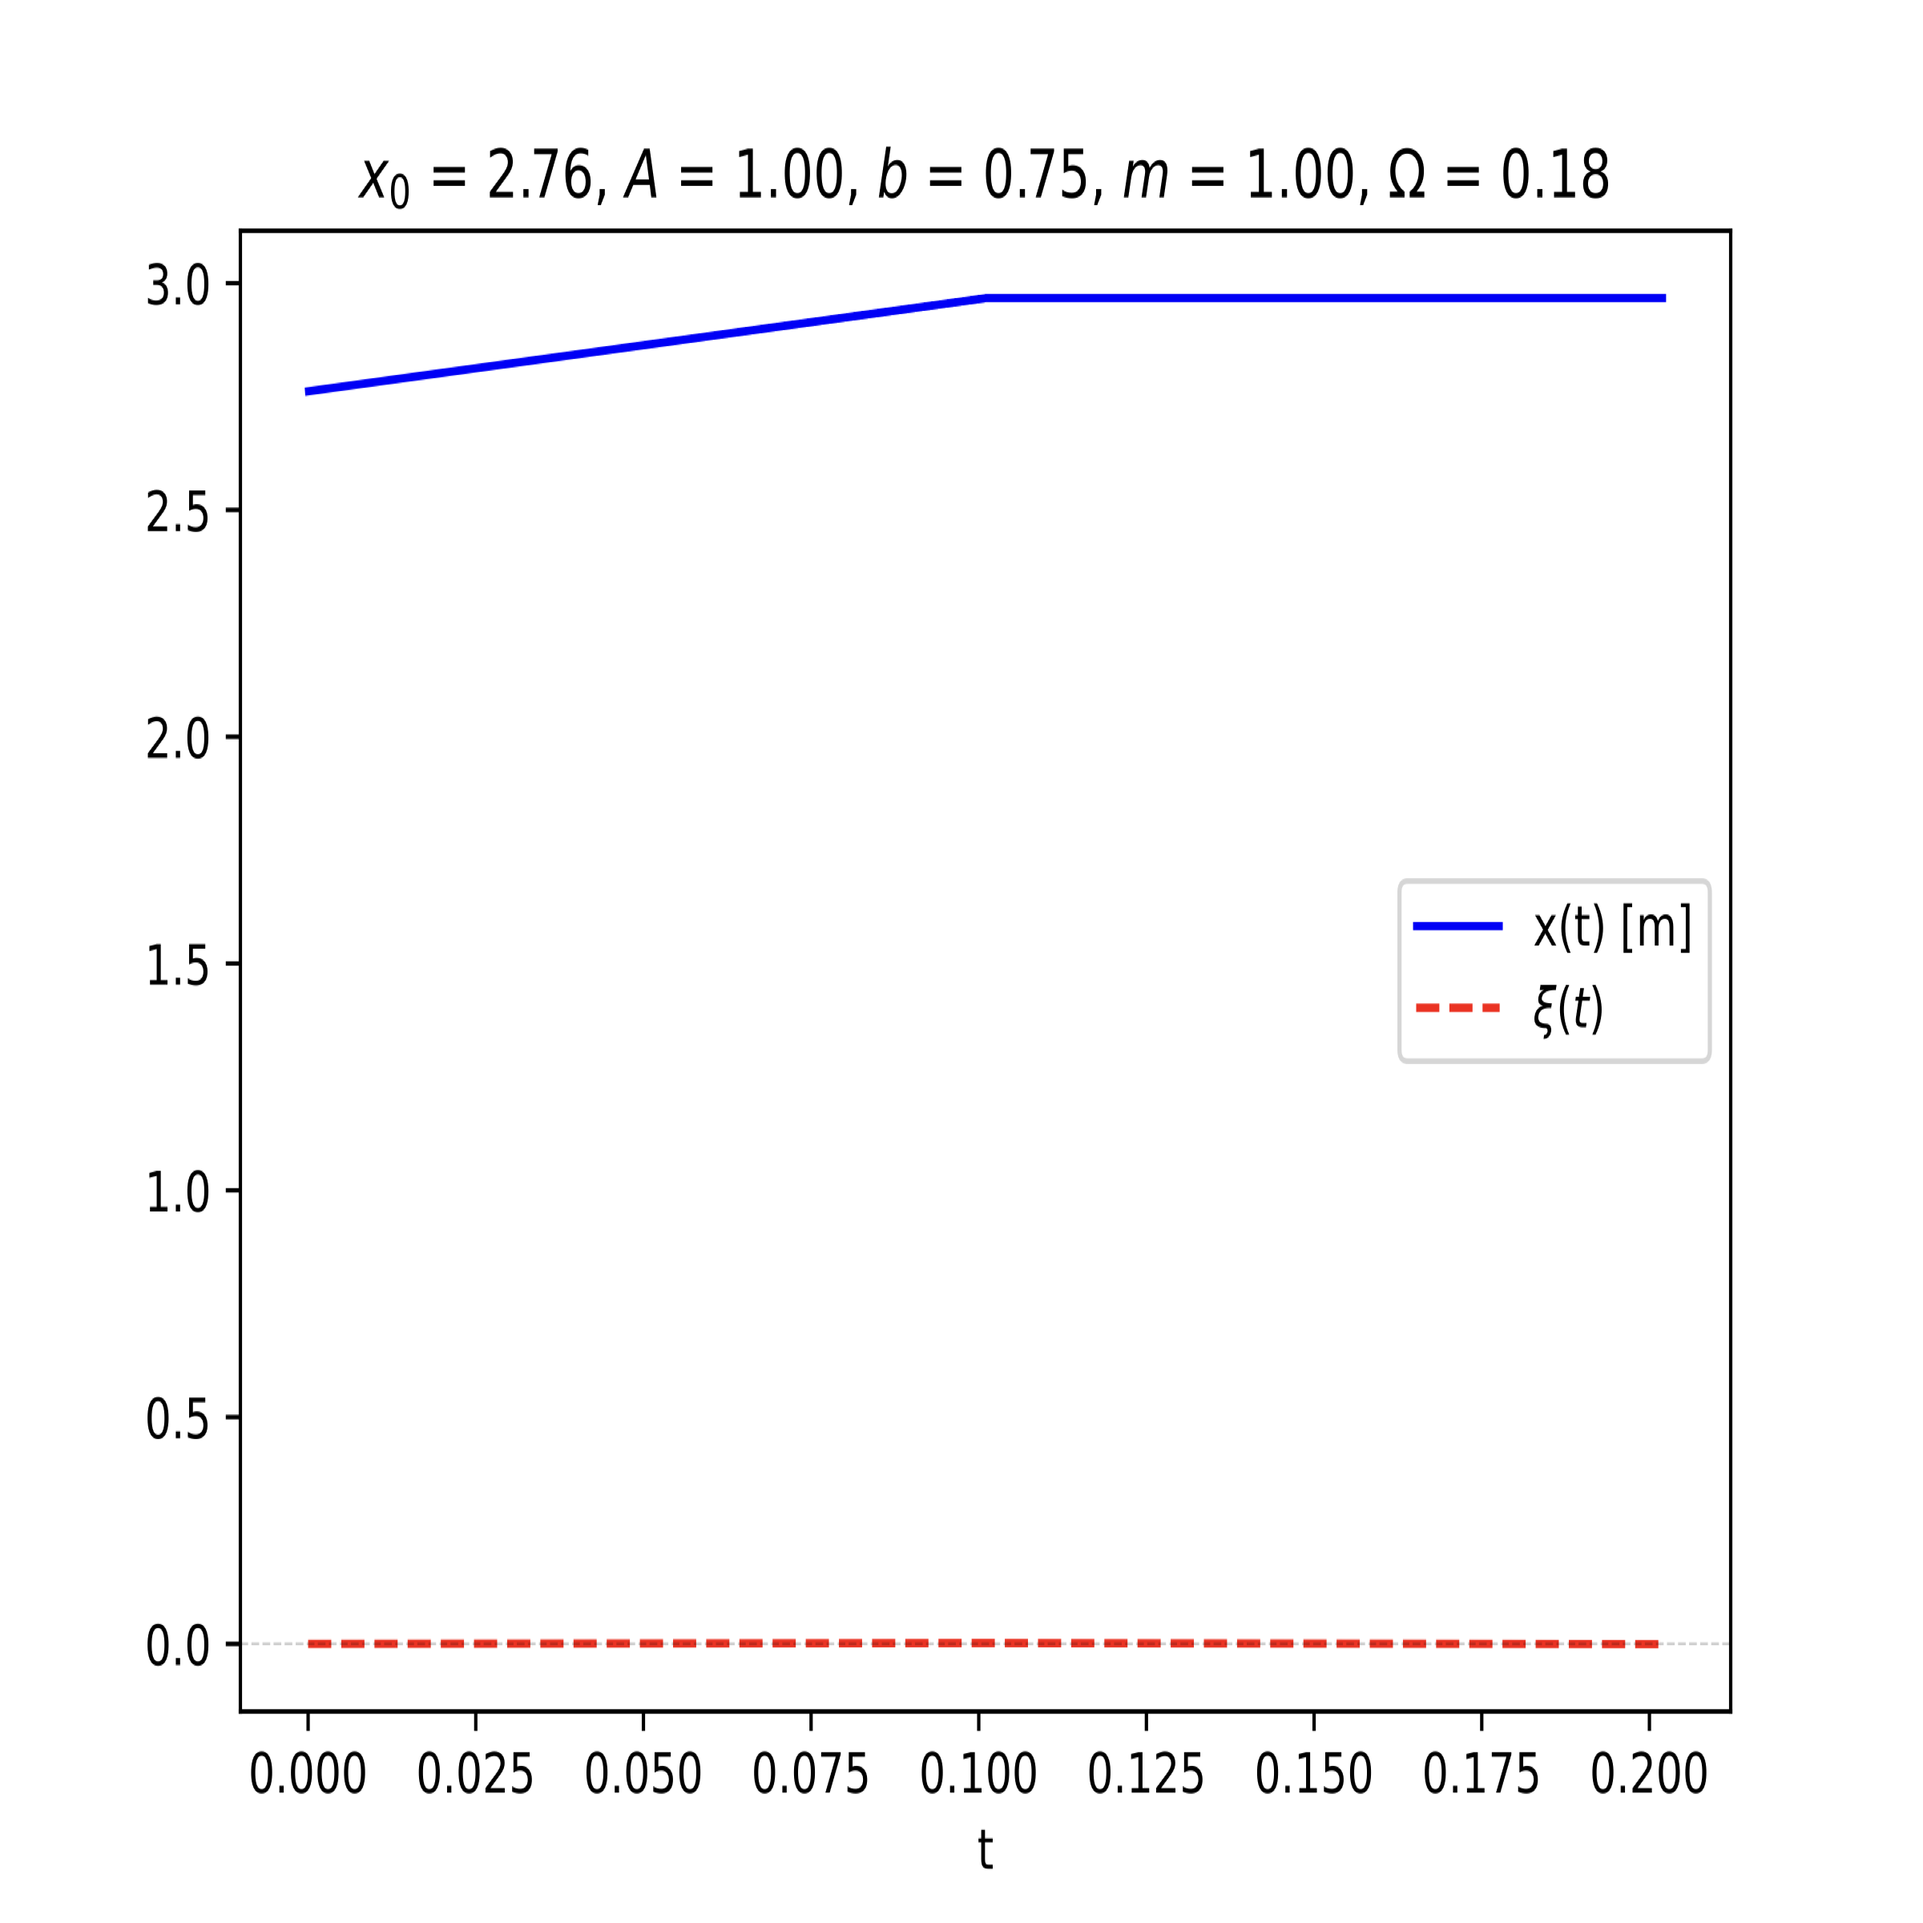
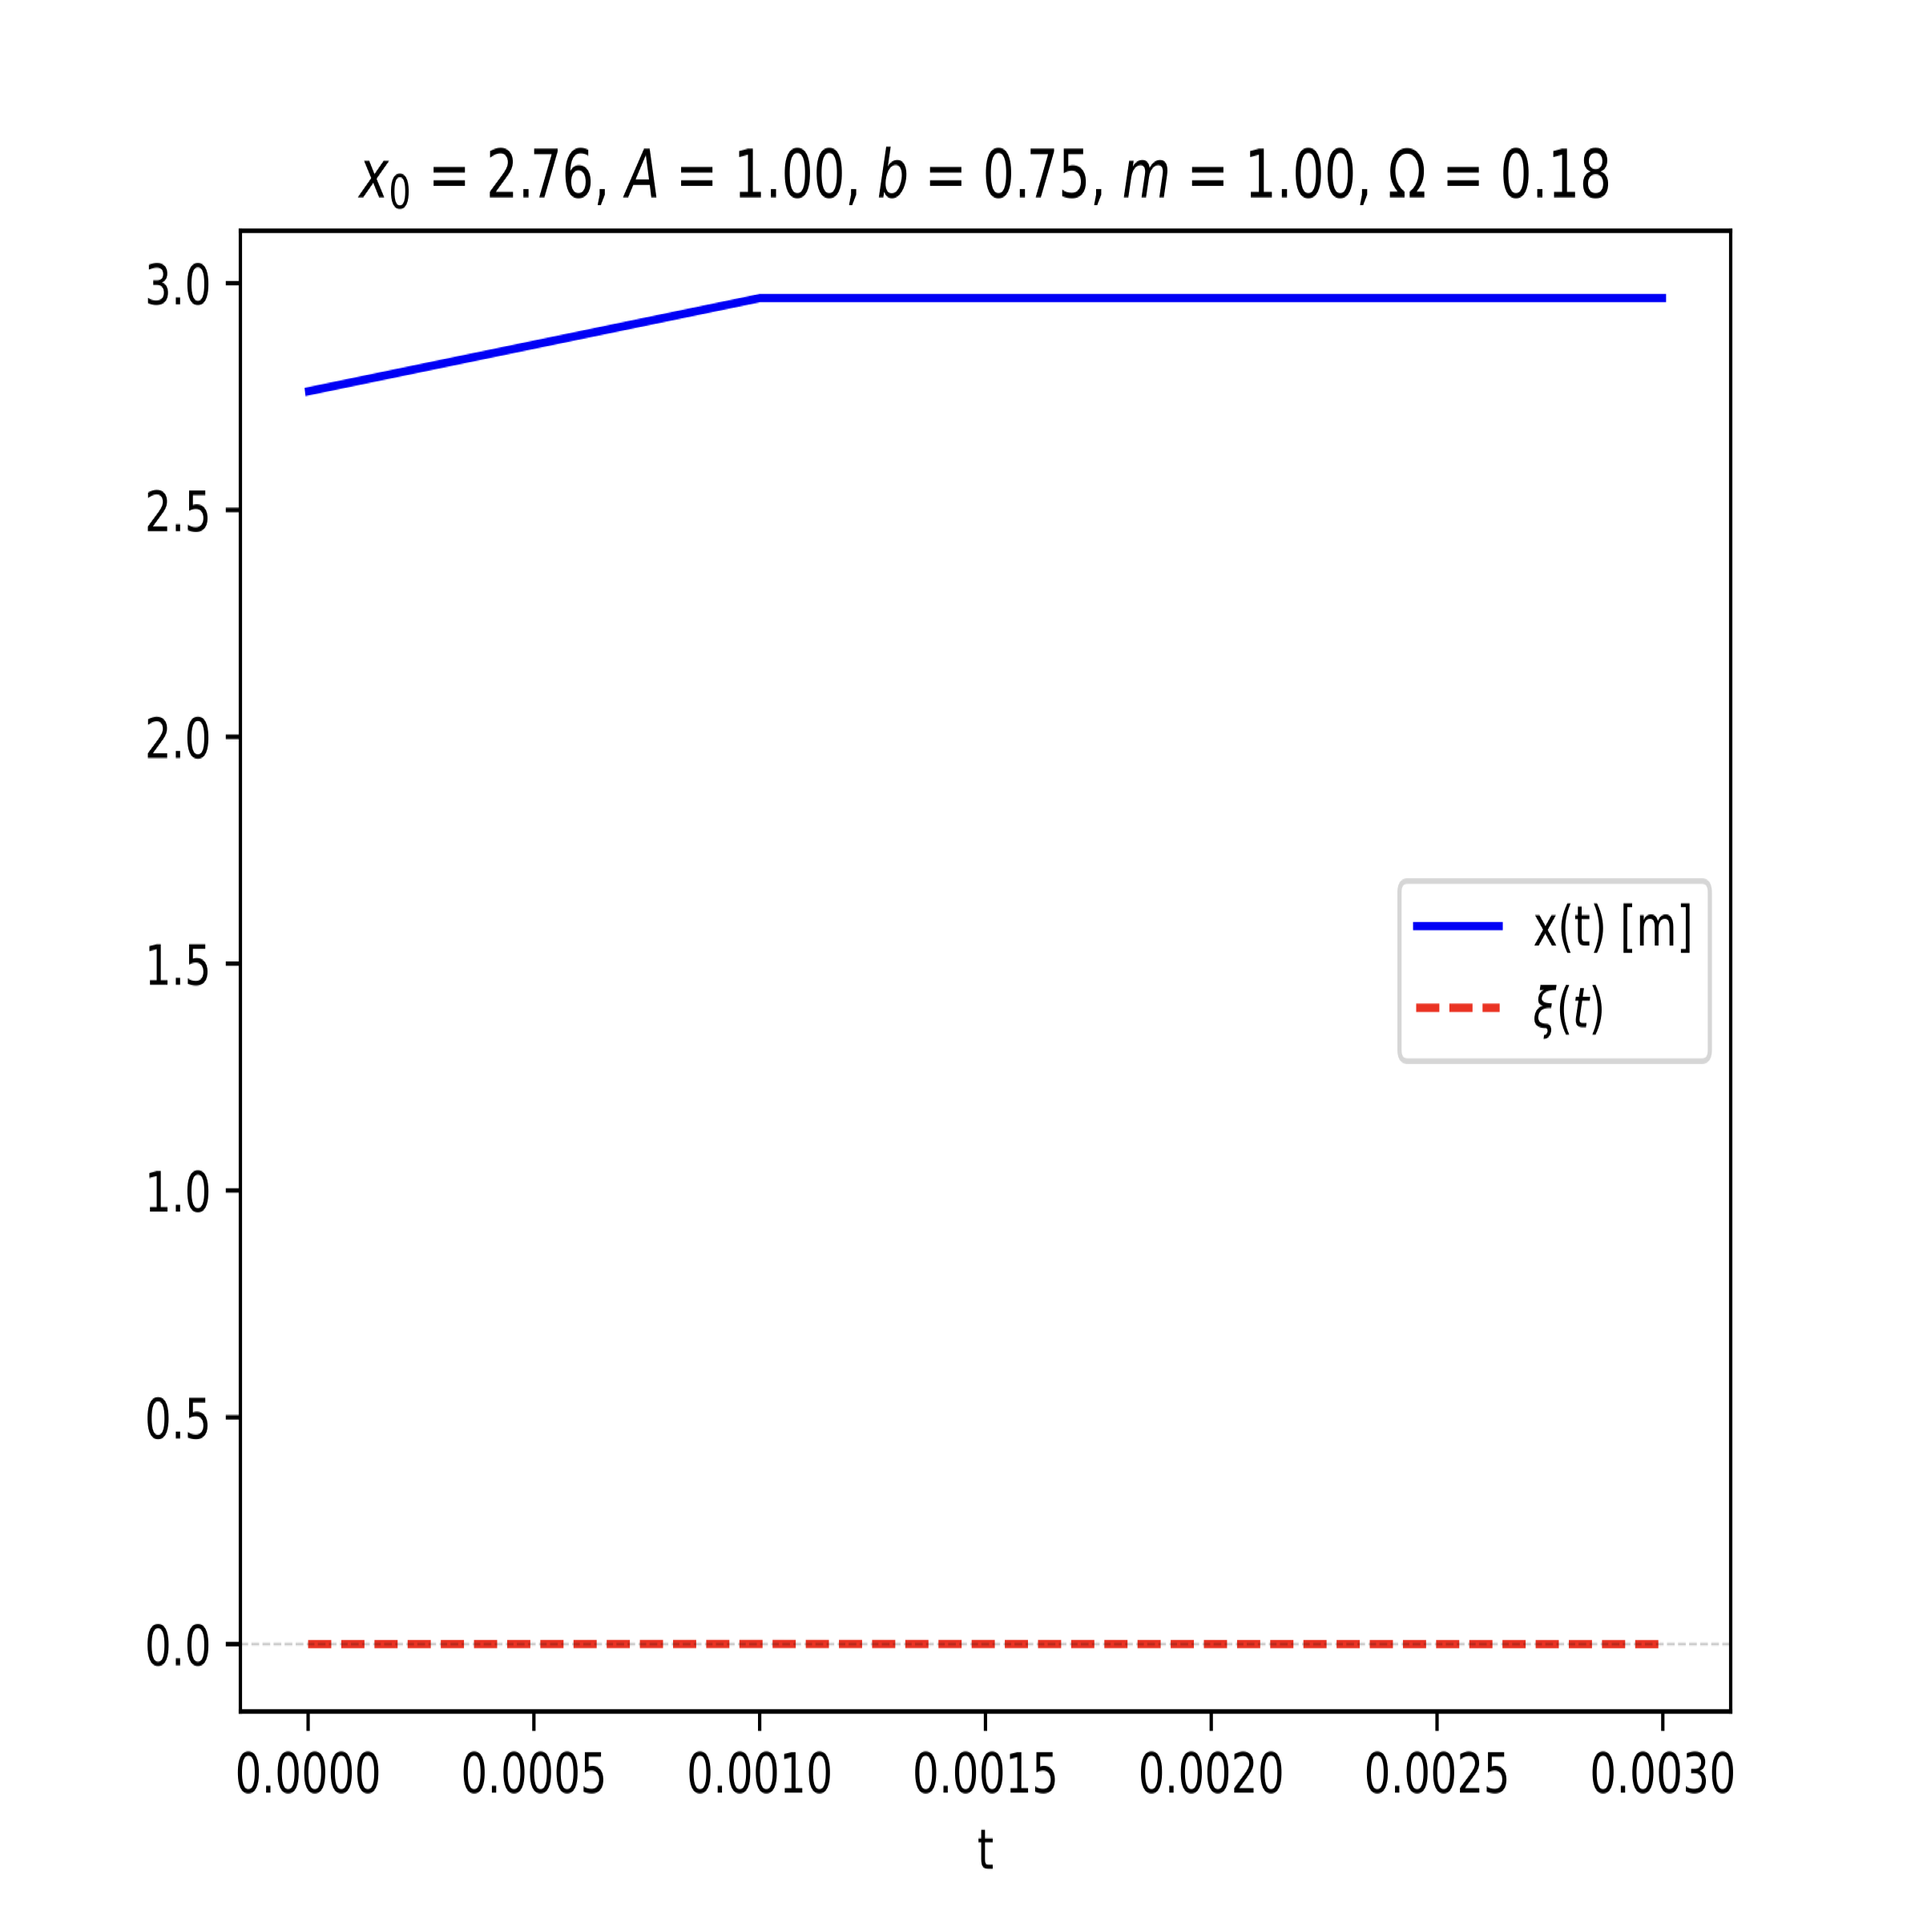
commit

Changed region(s): [[0.125, 0.9062, 0.8125, 0.9375], [0.1875, 0.125, 0.5, 0.2188], [0.8438, 0.9062, 0.9062, 0.9375]]

diff --git a/EdwardF/scripts/VM_PDE_script.py b/EdwardF/scripts/VM_PDE_script.py
@@ -87,7 +87,7 @@ def master_func_learn_ivp_pde(m = 1.0, Omega = 0.18, A = 1.0, b = 0.75, A_sol = 
         return df
 
     sigma = 1.0     # Width of the (Gaussian) potential, not used currently
-    dt = 0.1      # Time step
+    dt = 0.001      # Time step
     num_steps = int(T / dt)
     t_values = np.linspace(1e-8, T, num_steps)
     delta_t = t_values[1] - t_values[0]
@@ -139,7 +139,7 @@ def master_func_learn_ivp_pde(m = 1.0, Omega = 0.18, A = 1.0, b = 0.75, A_sol = 
         xi_penalty = 1e-5 #penalty for max(abs(xi))
     else:
         smoothness_penalty_factor = 1e-3 #α: penalty for lack of smoothness of xi
-        time_penalty_factor = [1e-3, 1e-7][-1] #β: penalty for taking longer
+        time_penalty_factor = [1e-3, 1e-7][0] #β: penalty for taking longer
         velocity_penalty = 1e-3 #γ: penalty for max(abs(v))
         xi_penalty = 1e-3 #δ: penalty for max(abs(xi))
     if loss_option == "before":
@@ -1457,10 +1457,10 @@ if __name__ == "__main__":
 #    master_func_learn_ivp_pde(m = 1.0, Omega = 0.18, A = 1.0, b = 0.75, A_sol = 0.75, w_sol = 0.5, load_model = True, base_model = "{DRIVE_BASE_PATH}/NeuralNetworkData/xi_model_IC_3_point_008519_1_point_0_0_point_75_1_point_0_0_point_18_Variational_.pth", no_print = False, get_model_loss_value = False, optimize_A_b_Omega_m = False, optimize_A_b_Omega_m_iterations = np.inf, simulate_only = {"simulate_only": False, "xStart": 0, "store mass values": False}, T = 10, v_start = 0.0, interpolate = False, add_kick = False, movie_x_lims = None, movie_y_lims = None, use_Variational_Potential = False, automate = False, produceInverse = False, saveLibTorch = True, useLibTorch = True, epsilon = 0.0, lrScheduler = False, learning_rate = 1e-5, weight_decay = 1e-4, Algorithm = "brute force", fine = False, coolingRate = 0.999, anneal = True, initial_temp = 1, amsgrad = False, to_time = {"timed": False, "time": 3600}, to_loss = {"loss thresholded": True, "threshold": 1.4e-2})
     base_model = (\
     "", \
-    "{DRIVE_BASE_PATH}/NeuralNetworkData/xi_model_IC_2_point_7615_1_point_0_0_point_75_1_point_0_0_point_18_pde_.pth", \
+    f"{DRIVE_BASE_PATH}/NeuralNetworkData/xi_model_IC_2_point_7615_1_point_0_0_point_75_1_point_0_0_point_18_pde_.pth", \
     "xi_model_IC_2_point_979229_1_point_0_0_point_760417_1_point_0_0_point_180833_Variational_.pth", \
-    "{DRIVE_BASE_PATH}/NeuralNetworkData/xi_model_IC_1_point_227_0_point_1_1_1_point_0_0_point_2_pde_.pth", \
-    "{DRIVE_BASE_PATH}/NeuralNetworkData/xi_model_IC_1_point_2065_0_point_075_0_point_75_1_point_0_0_point_18_pde_.pth")[0]
+    f"{DRIVE_BASE_PATH}/NeuralNetworkData/xi_model_IC_1_point_227_0_point_1_1_1_point_0_0_point_2_pde_.pth", \
+    f"{DRIVE_BASE_PATH}/NeuralNetworkData/xi_model_IC_1_point_2065_0_point_075_0_point_75_1_point_0_0_point_18_pde_.pth")[1]
     ExtPotA = (1.0, 0.2, 0.1, 0.075)[0]
     ExtPotb = (0.75, 1)[0]
     ExtPotΩ = (0.18, 0.2)[0]
